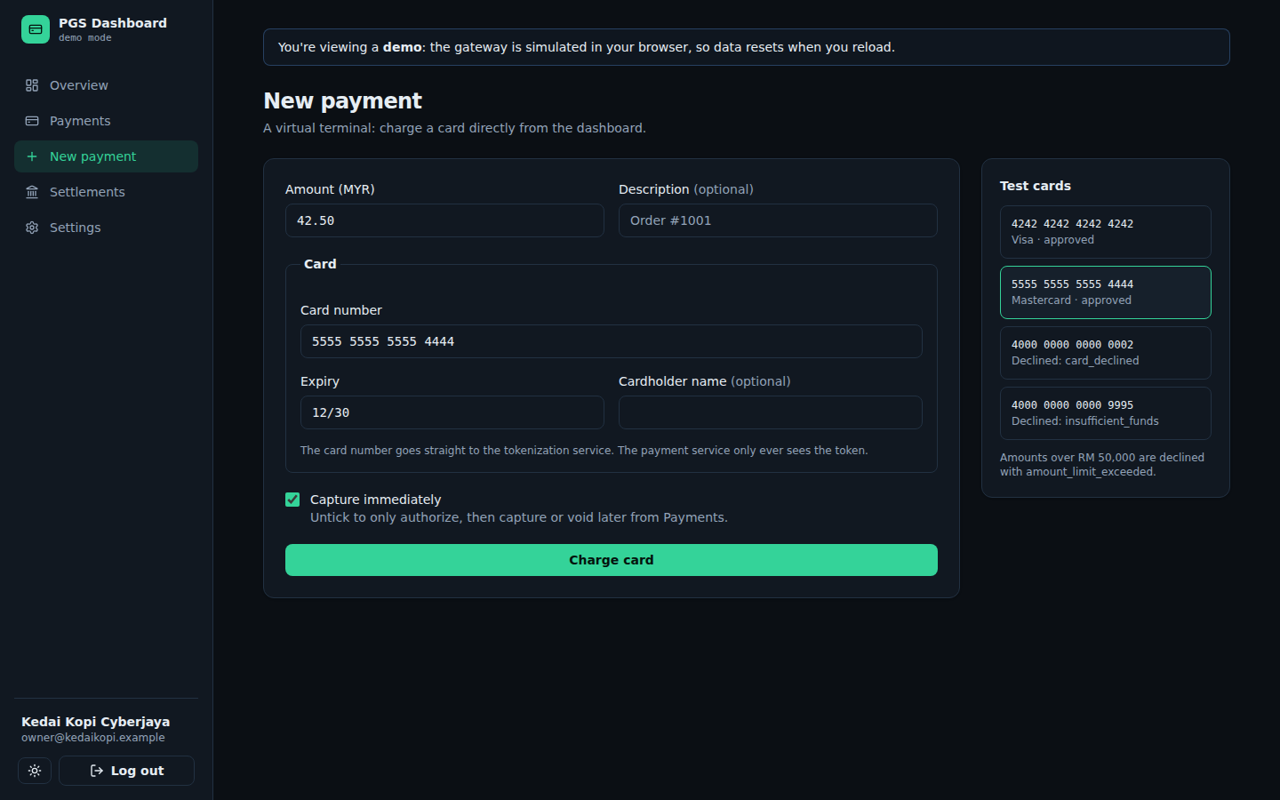
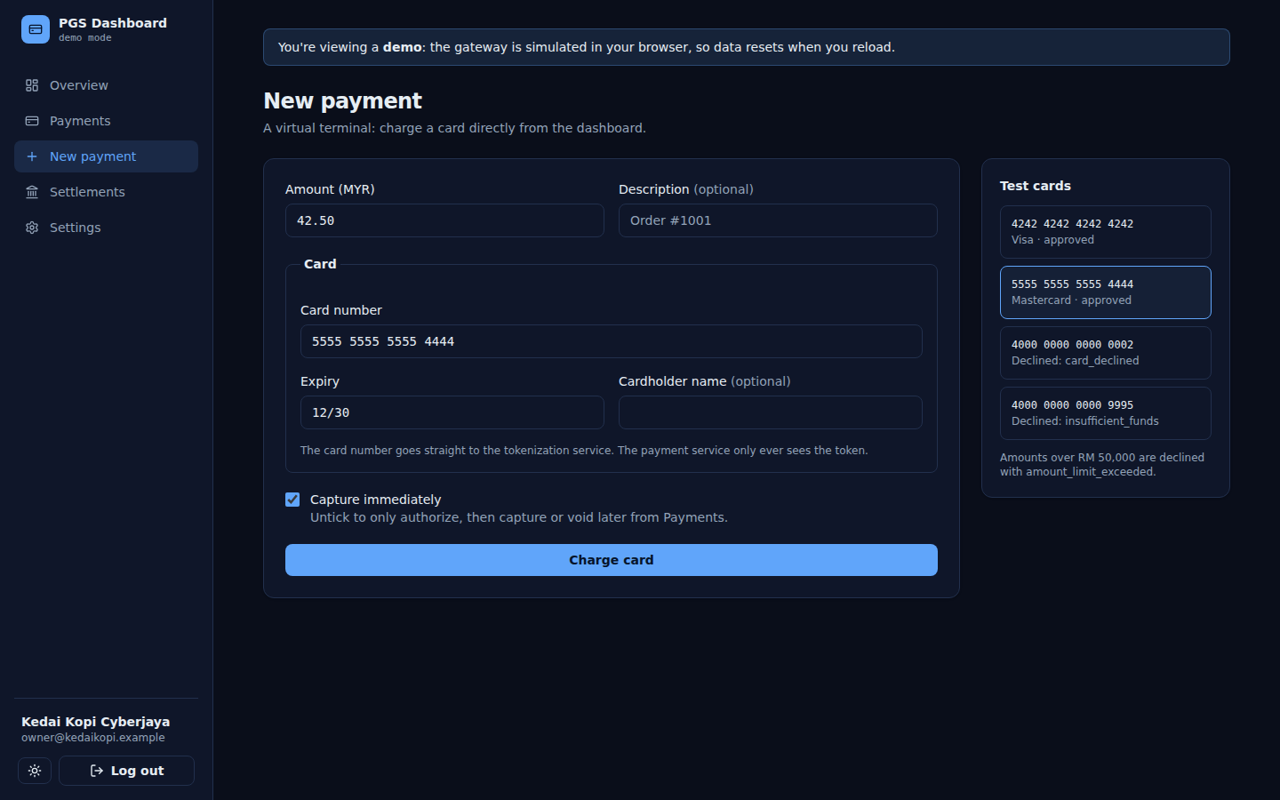
style: switch dashboard to blue theme

diff --git a/src/index.css b/src/index.css
@@ -4,36 +4,38 @@
 
 /* Semantic colour tokens, swapped wholesale for dark mode. */
 :root {
-  --bg: #f6f8fa;
+  --bg: #f5f7fb;
   --surface: #ffffff;
   --surface-2: #f1f4f8;
   --line: #e3e8ef;
   --fg: #0f172a;
   --muted: #5b6b80;
-  --accent: #059669;
-  --accent-strong: #047857;
+  --accent: #2563eb;
+  --accent-strong: #1d4ed8;
   --accent-fg: #ffffff;
-  --accent-soft: rgb(5 150 105 / 0.10);
+  --accent-soft: rgb(37 99 235 / 0.10);
+  --success: #059669;
   --danger: #dc2626;
   --warn: #b45309;
-  --info: #2563eb;
+  --info: #7c3aed;
   color-scheme: light;
 }
 
 .dark {
-  --bg: #0b0f14;
-  --surface: #111821;
-  --surface-2: #16202b;
-  --line: #223142;
+  --bg: #0a0e1a;
+  --surface: #0f1629;
+  --surface-2: #152036;
+  --line: #22304d;
   --fg: #e6edf3;
   --muted: #93a3b8;
-  --accent: #34d399;
-  --accent-strong: #10b981;
-  --accent-fg: #04130d;
-  --accent-soft: rgb(52 211 153 / 0.12);
+  --accent: #60a5fa;
+  --accent-strong: #3b82f6;
+  --accent-fg: #06142b;
+  --accent-soft: rgb(96 165 250 / 0.14);
+  --success: #34d399;
   --danger: #f87171;
   --warn: #fbbf24;
-  --info: #60a5fa;
+  --info: #a78bfa;
   color-scheme: dark;
 }
 
@@ -48,6 +50,7 @@
   --color-accent-strong: var(--accent-strong);
   --color-accent-fg: var(--accent-fg);
   --color-accent-soft: var(--accent-soft);
+  --color-success: var(--success);
   --color-danger: var(--danger);
   --color-warn: var(--warn);
   --color-info: var(--info);

diff --git a/src/pages/SettlementsPage.tsx b/src/pages/SettlementsPage.tsx
@@ -56,7 +56,7 @@ export function SettlementsPage() {
           <div className="mt-3" aria-live="polite">
             {run.error && <ErrorBanner error={run.error} />}
             {run.data && (
-              <p className="text-sm text-accent">
+              <p className="text-sm text-success">
                 Settlement for {run.data.settlementDate} finished: {run.data.status.toLowerCase()}.
               </p>
             )}
@@ -130,7 +130,7 @@ export function SettlementsPage() {
                 <tr key={e.id}>
                   <td className="td whitespace-nowrap text-muted">{formatDateTime(e.occurredAt)}</td>
                   <td className="td">
-                    <span className={e.entryType === 'CAPTURE' ? 'text-accent' : 'text-warn'}>{e.entryType.toLowerCase()}</span>
+                    <span className={e.entryType === 'CAPTURE' ? 'text-success' : 'text-warn'}>{e.entryType.toLowerCase()}</span>
                   </td>
                   <td className="td font-mono text-xs text-muted">{e.paymentId.slice(0, 8)}</td>
                   <td className="td text-right font-mono">

diff --git a/src/components/ui.tsx b/src/components/ui.tsx
@@ -21,7 +21,7 @@ export function PageHeader({ title, subtitle, actions }: { title: string; subtit
 
 const STATUS_STYLES: Record<PaymentStatus, string> = {
   AUTHORIZED: 'bg-info/10 text-info',
-  CAPTURED: 'bg-accent-soft text-accent',
+  CAPTURED: 'bg-success/10 text-success',
   PARTIALLY_REFUNDED: 'bg-warn/10 text-warn',
   REFUNDED: 'bg-warn/10 text-warn',
   VOIDED: 'bg-surface-2 text-muted',
@@ -80,7 +80,7 @@ export function CopyButton({ value, label = 'Copy' }: { value: string; label?: s
         })
       }}
     >
-      {copied ? <Check className="size-4 text-accent" /> : <Copy className="size-4" />}
+      {copied ? <Check className="size-4 text-success" /> : <Copy className="size-4" />}
     </button>
   )
 }

diff --git a/src/components/Layout.tsx b/src/components/Layout.tsx
@@ -98,7 +98,7 @@ export function Layout() {
 
       <main className="mx-auto w-full max-w-6xl px-4 py-8 sm:px-8">
         {DEMO_MODE && (
-          <p className="mb-6 rounded-lg border border-info/30 bg-info/5 px-4 py-2.5 text-sm text-fg">
+          <p className="mb-6 rounded-lg border border-accent/30 bg-accent-soft px-4 py-2.5 text-sm text-fg">
             You're viewing a <strong>demo</strong>: the gateway is simulated in your browser, so data resets when you reload.
           </p>
         )}

diff --git a/src/pages/NewPaymentPage.tsx b/src/pages/NewPaymentPage.tsx
@@ -95,7 +95,7 @@ export function NewPaymentPage() {
         <PageHeader title="New payment" />
         <div className="card mx-auto max-w-lg p-8 text-center">
           {approved ? (
-            <CircleCheck className="mx-auto mb-3 size-12 text-accent" aria-hidden />
+            <CircleCheck className="mx-auto mb-3 size-12 text-success" aria-hidden />
           ) : (
             <CircleX className="mx-auto mb-3 size-12 text-danger" aria-hidden />
           )}
